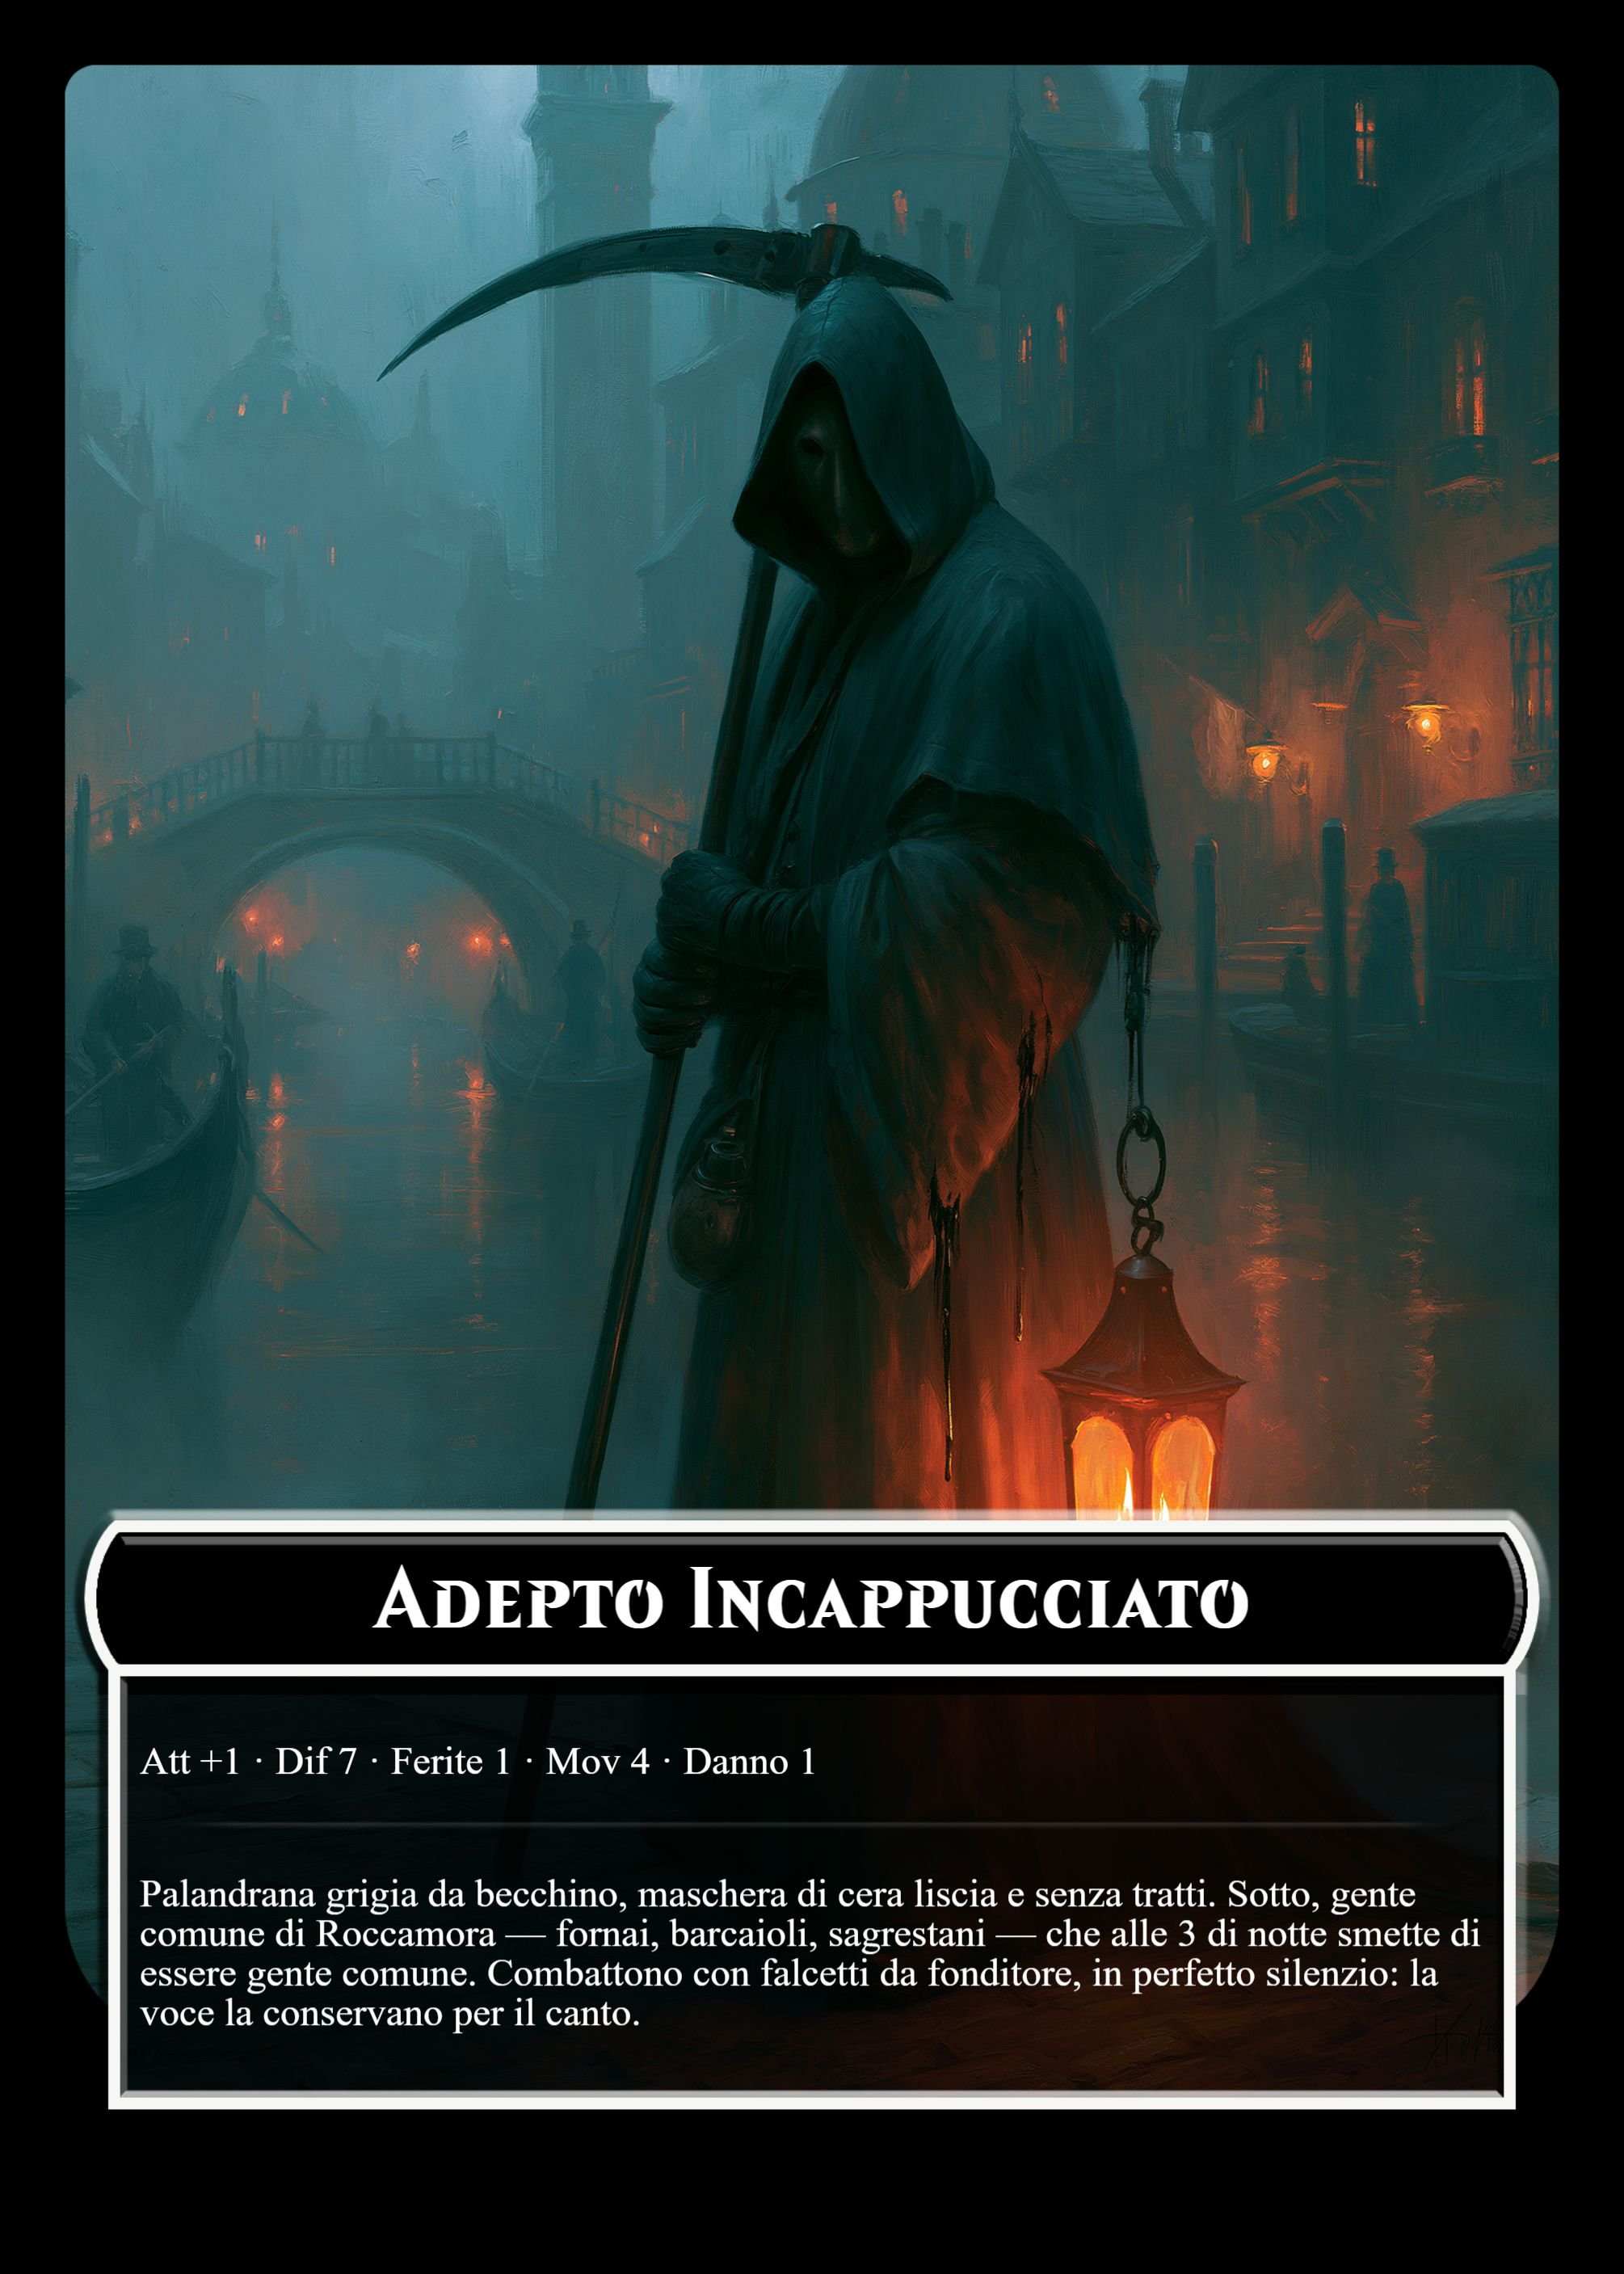
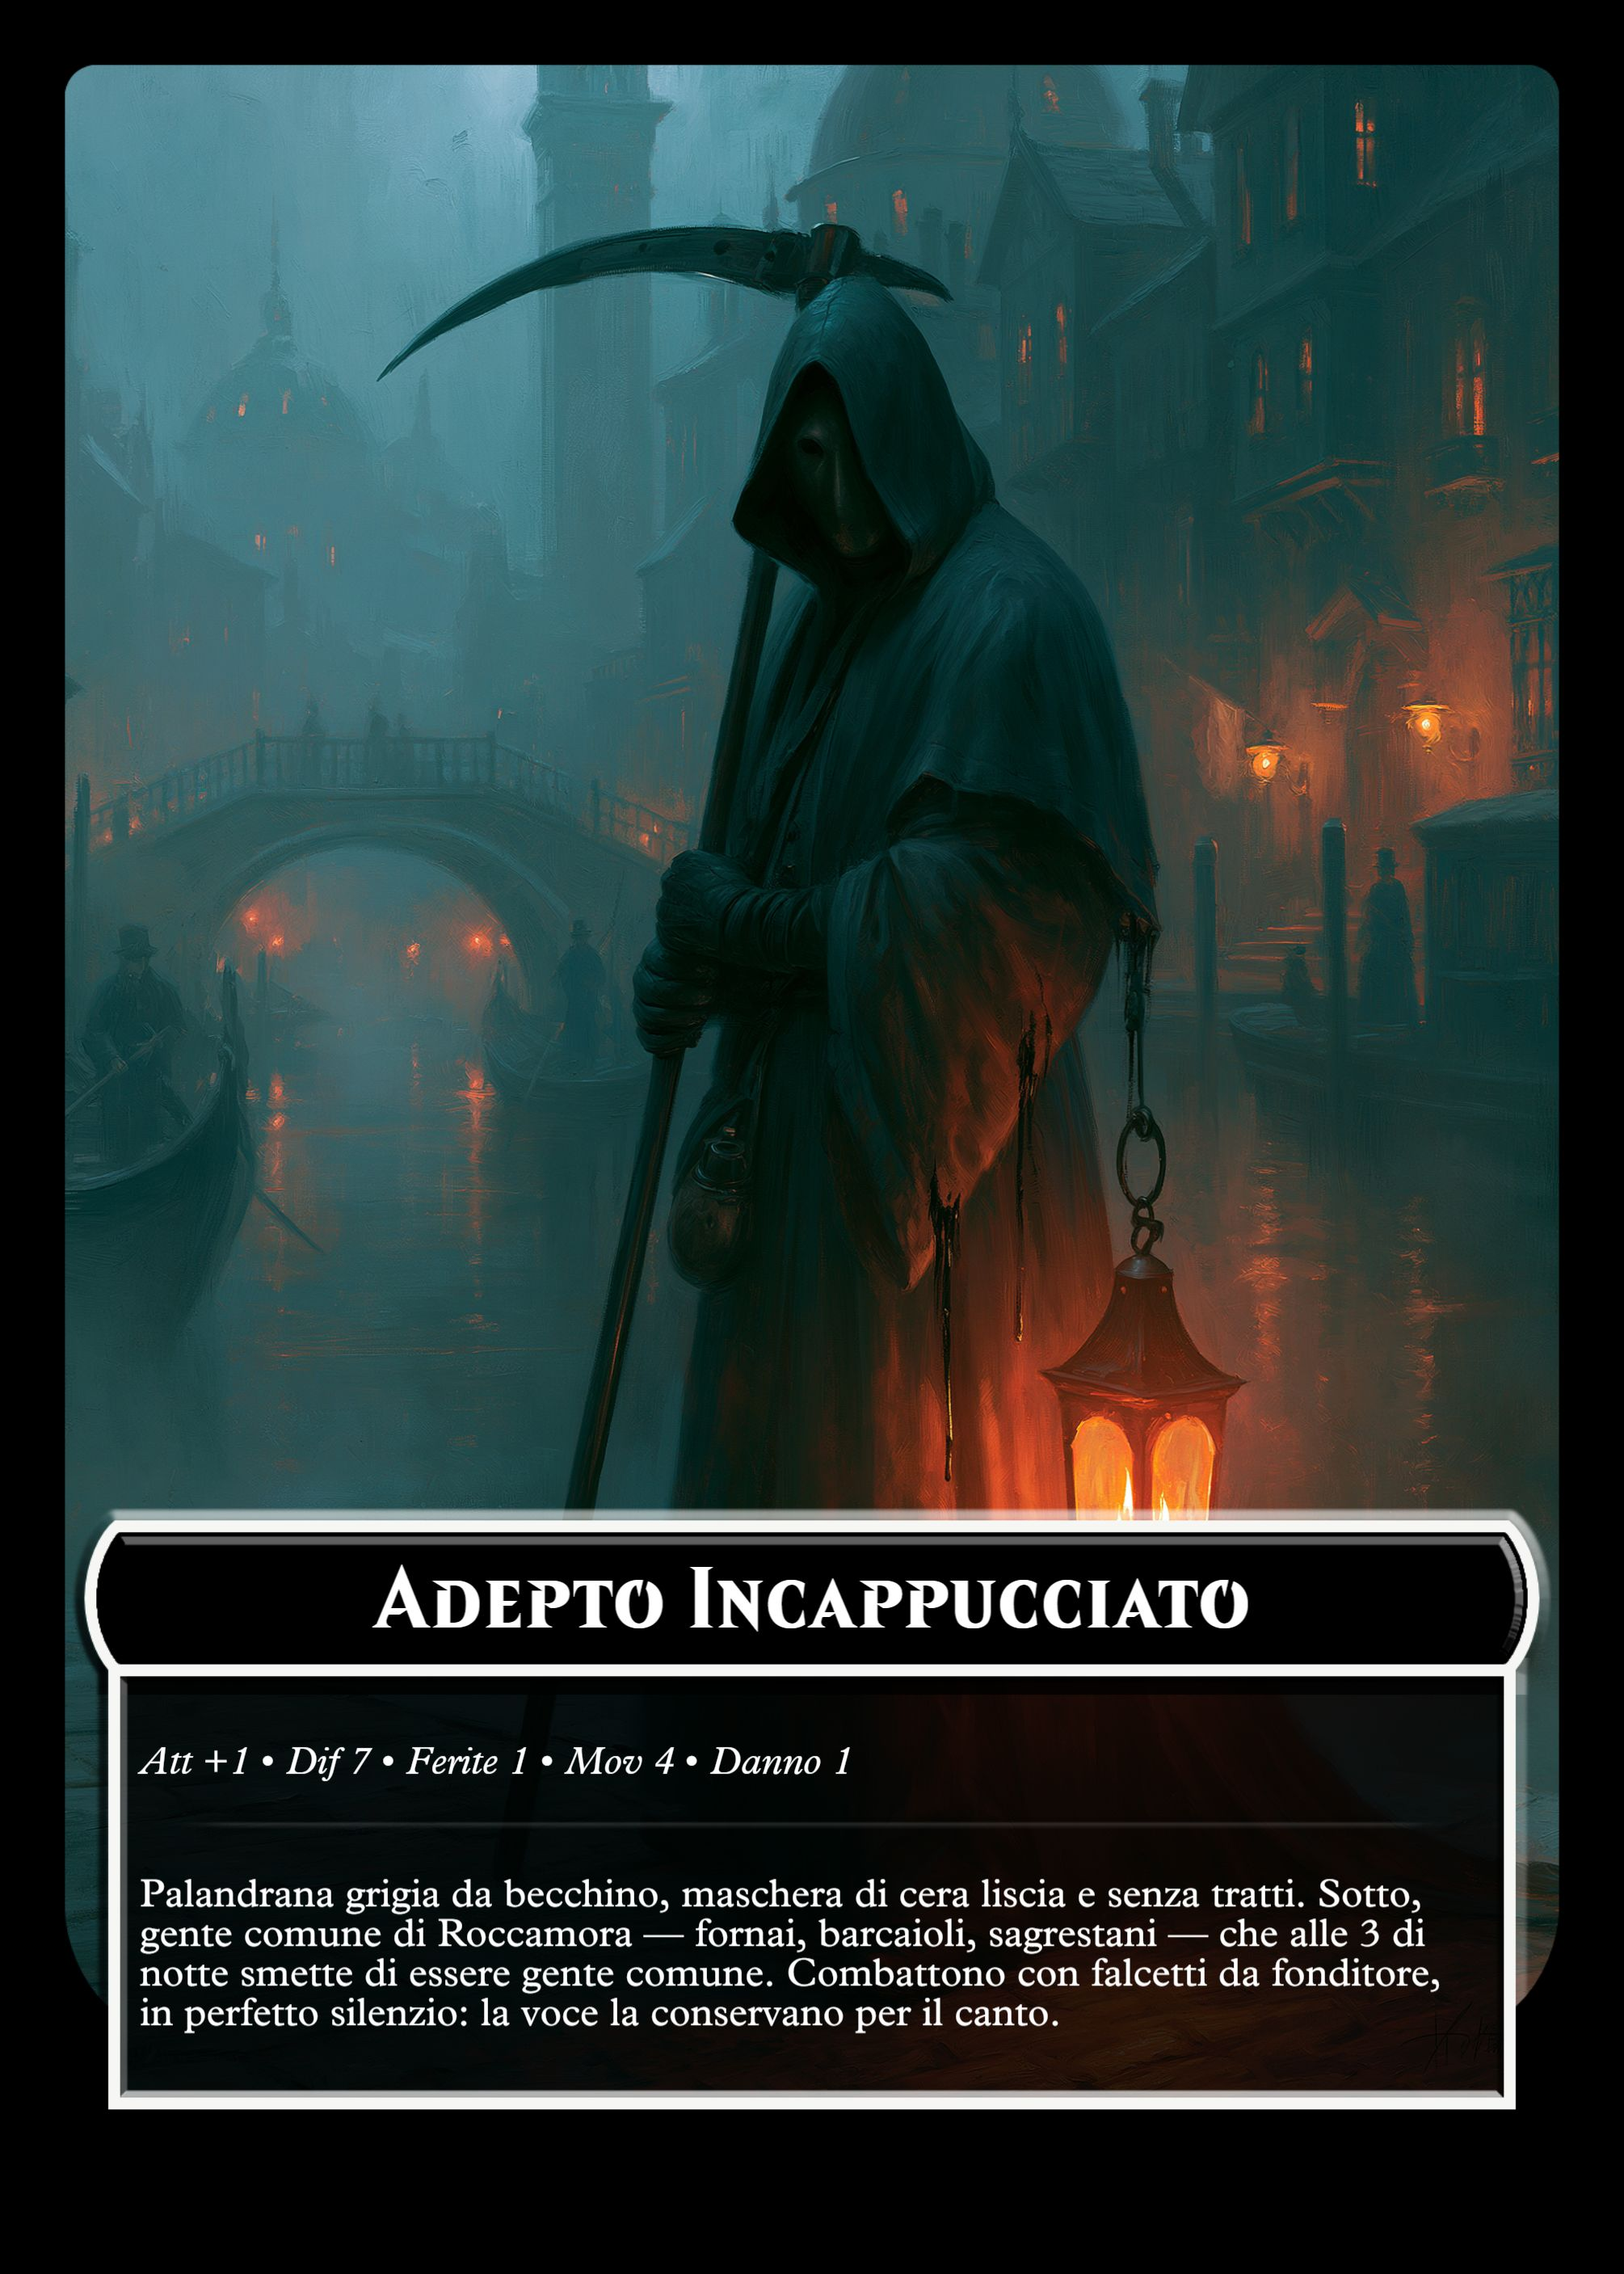
Carte Luogo e Indizio Segreto, fix corsivo mancante sulla prima carta
Aggiunte 8 carte Luogo (Indagine) e 2 Indizio Segreto (solo i luoghi 1 e 4
hanno un vero indizio nascosto nei dati di gioco) in cards-data.js, testo
autoritativo da src/story.py e src/gen_cards.py. Arte riusata dalle 8
immagini inglesi gia' presenti; Archivio Civico ritagliata su misura per
inquadrare sia il libro che la figura invece che l'autofit di cardconjurer
che centrava sulla figura.

Fix in lib.js: la primissima carta generata in un browser/sessione nuova
perdeva il corsivo {i}...{/i} (bug del parser di cardconjurer, non nostro).
Rifare il fill del campo Rules Text una seconda volta lo risolve. Rigenerate
le 6 carte gia' esistenti colpite dal bug (Elena Fosco, Adepto Incappucciato,
Adepto in Agguato, Luogo 1, i 2 Indizio Segreto).

Rimossi 3 file in artworks/ (Cornice carte verticali, Dorso carte Luogo,
Dorso carte Minaccia) gia' spariti dal disco, confermato dall'utente.

Changed region(s): [[0.0925, 0.7729, 0.9254, 0.8966], [0.1851, 0.7729, 0.2159, 0.8038]]

diff --git a/scripts/cardconjurer/cards-data.js b/scripts/cardconjurer/cards-data.js
@@ -137,10 +137,97 @@ const MINACCE = [
   rules: `{i}${m.flavor}{/i}{divider}${m.effect}`,
 }));
 
+// Luoghi dell'Indagine: testo esteso da src/story.py TESTI_LUOGHI (quello
+// realmente stampato nel PDF via story.apply), indizi/nascosto/req da
+// src/gen_cards.py LUOGHI. Un'arte per luogo, riusata anche dalla carta
+// Indizio Segreto corrispondente.
+const LUOGHI_ART = {
+  1: 'artworks/bell tower.png',
+  2: 'artworks/humble candlelit canal-side room.png',
+  3: 'artworks/smoky canal tavern.png',
+  4: 'artworks/nervous priest in a candlelit sacristy.png',
+  5: 'artworks/abandoned luthier workshop.png',
+  6: 'artworks/derelict warehouses over black still water.png',
+  7: 'artworks/dusty municipal archive (libro+persona).png', // ritagliata + banda in fondo (coperta dal riquadro testo) per stare larga quanto libro e figura insieme
+  8: 'artworks/cluttered 19th century police office.png',
+};
+
+const LUOGHI = [
+  { n: 1, nome: 'Il Campanile di San Teodoro', req: 'Disponibile dall’inizio',
+    testo: 'La scala a chiocciola sale nel buio, ottanta gradini che Ruggero conosceva a memoria. In cima, la cella campanaria è un disordine congelato: lo sgabello rovesciato, la lanterna ancora appesa al gancio, la cena intatta sotto un panno. Le tre grandi campane pendono immobili come bestie addormentate, e fa più freddo di quanto dovrebbe.',
+    indizi: ['Colate di cera nera sui gradini — troppo in alto perché vengano dalle candele della chiesa.',
+             'Il diario di Ruggero, con l’ultima pagina strappata. Ricalcando i solchi della penna leggete: «...alle 3 in punto, ogni notte. Tre rintocchi, poi uno, poi cinque. Non sono io a suonare.»',
+             'Graffiata sul legno della balaustra, una parola: SOMMERSO.'],
+    nascosto: 'Tra le assi, un frammento di spartito scritto a mano. Le note non sono per organo: sono per campane.' },
+  { n: 2, nome: 'Casa di Ruggero — Vicolo dei Fonditori', req: 'Disponibile dall’inizio',
+    testo: 'Il vicolo dei Fonditori sa di carbone e minestra. Bice vi apre con gli occhi rossi e le mani che non stanno ferme; la casa è linda, povera, piena dell’assenza di suo fratello. «Negli ultimi tempi diceva di sentire musica sotto il pavimento della cripta», mormora. «E aveva paura del suo stesso campanile.»',
+    indizi: ['Sul tavolo, una CORDA DI VIOLINO d’argento: «L’ha trovata in cripta», dice Bice. (Oggetto: sblocca il Luogo 5.)',
+             'Una ricevuta: Ruggero aveva chiesto all’Archivio Civico i documenti antichi della cattedrale.',
+             'Bice: «L’ultima sera ripeteva una parola, come una preghiera al contrario: sommerso, sommerso.»'],
+    nascosto: null },
+  { n: 3, nome: 'Taverna del Ponte Rotto', req: 'Disponibile dall’inizio',
+    testo: 'Fumo denso, vino cattivo, il tanfo dolciastro del canale che entra a ogni porta che sbatte. I barcaioli giocano a carte sotto una lampada a olio e vi squadrano appena: qui le lingue si sciolgono con poco, purché il poco finisca nel bicchiere giusto.',
+    indizi: ['Ugo il barcaiolo: «Tre notti fa una CHIATTA senza lanterne ha scaricato casse al Canale Basso. Alle 3, proprio mentre le campane suonavano da sole.» (Parola chiave: sblocca il Luogo 6.)',
+             'Un avventore ubriaco: «Vicino ai vecchi magazzini c’è puzza di cera bruciata da settimane.»',
+             'L’oste conferma: Tonio il sagrestano era qui a giocare a carte fino all’alba, la notte della scomparsa.'],
+    nascosto: null },
+  { n: 4, nome: 'La Sagrestia della Cattedrale', req: 'Disponibile dall’inizio',
+    testo: 'Odore d’incenso e di chiuso. Don Callisto vi riceve tra i paramenti, nervoso, nascondendo dietro la schiena le mani sporche di cera. Alle sue spalle la porta della cripta, sbarrata con assi nuove su pietra antica: «Chiusa per lavori», taglia corto, e la voce gli si incrina sull’ultima sillaba.',
+    indizi: ['La tabella degli inni segna il numero 315, «Dal Profondo». Tonio giura di non averlo mai impostato: «Quell’inno non si canta da cent’anni. È roba dell’antico coro.»',
+             'Don Callisto ammette: la seconda chiave della cripta ce l’ha il liutaio Ferri, che sta restaurando l’organo.',
+             'Prima che usciate, vi mette in mano un’ampolla di acqua benedetta: «Se là sotto c’è il demonio, portate questa.»'],
+    nascosto: 'La cera sulle mani di don Callisto è bianca, comune: vende candele di nascosto per pagare i debiti della parrocchia. Con la cera nera non c’entra.' },
+  { n: 5, nome: 'Bottega del Liutaio Ferri', req: 'Serve: la CORDA DI VIOLINO (Luogo 2)',
+    testo: 'La bottega è chiusa da giorni, la polvere ha già preso possesso delle vetrine; la porta sul retro cede a una spallata. Dentro, violini appesi come selvaggina e un silenzio sbagliato per un luogo nato per fare musica. Il banco da lavoro è in ordine perfetto: chi è partito, sapeva di partire.',
+    indizi: ['Bastiano Ferri è sparito da tre giorni. Sul banco, un diapason d’argento inciso con un’onda.',
+             'Il registro consegne, ultima riga: «40 candele di cera nera — consegna al C.B., molo terzo, il vecchio deposito — pagato B.F.»',
+             'Uno spartito: «Dal Profondo», riscritto per campane. In margine: «il bronzo canta, la pietra risponde, l’acqua ricorda».'],
+    nascosto: null },
+  { n: 6, nome: 'Il Canale Basso', req: 'Serve: la parola chiave CHIATTA (Luogo 3)',
+    testo: 'L’acqua qui non scorre: sta. Nera, ferma, densa come olio, lambisce magazzini ciechi dai portoni murati. Il guardiano notturno esce dal casotto con la lanterna alzata e, per qualche moneta, la diffidenza si scioglie in fretta: da settimane muore dalla voglia di raccontare a qualcuno quello che sente la notte.',
+    indizi: ['«Le casse erano marchiate a fuoco con un’onda. Le hanno portate al vecchio Magazzino delle Cere, quello chiuso da vent’anni.»',
+             '«Alle 3 di notte, da là dentro, viene un canto sommesso. Di molte voci. Una volta... ho sentito un urlo.»',
+             'Sul molo: gocce di cera nera e un lucchetto nuovo di zecca sulla porta della banchina, di quelli a tre cifre.'],
+    nascosto: null },
+  { n: 7, nome: 'L’Archivio Civico', req: 'Serve: la parola chiave SOMMERSO (Luogo 1)',
+    testo: 'Scaffali fino al soffitto, cartelle legate con lo spago, la luce verde delle lampade a schermo. L’archivista, minuscolo dietro occhiali spessi, si irrigidisce quando pronunciate la parola giusta: poi, senza fiatare, vi guida a uno scaffale che nessuno tocca da decenni — la polvere è spessa un dito, tranne che su un solo fascicolo.',
+    indizi: ['Fascicolo del 1741: la confraternita del Coro Sommerso, bandita per «pratiche contrarie a Dio e alla quiete delle acque». Si riuniva in cavità sotto la cattedrale, «dove l’acqua canta». Il suo sigillo: un’onda.',
+             'Una mappa antica: dalla cripta, condotti scendono verso il Canale Basso.',
+             'Registro consultazioni, due mesi fa: «B. Ferri, liutaio» ha richiesto questo stesso fascicolo.'],
+    nascosto: null },
+  { n: 8, nome: 'La Gendarmeria', req: 'Disponibile dall’inizio',
+    testo: 'Pile di pratiche, una stufa che fuma, il brigadiere che vi riceve senza alzarsi. «Il campanaro? Sarà scappato con qualche vedova.» Ma mentre lo dice non vi guarda negli occhi, e la sua mano tamburella su un fascicolo di denunce che continua a spostare da un lato all’altro della scrivania.',
+    indizi: ['Nessuna richiesta di riscatto. Il sospettato ufficiale è Tonio il sagrestano, l’ultimo ad aver visto Ruggero.',
+             'Denunce recenti: furti di cera e canapa da tre chiese. E un fonditore giura d’aver venduto un quintale di bronzo a un compratore incappucciato.',
+             '«Se trovate qualcosa di concreto, tornate. Non perquisiamo mezza città per un campanaro con la testa fra le nuvole.»'],
+    nascosto: null },
+].map((L) => ({
+  art: LUOGHI_ART[L.n],
+  title: L.nome,
+  file: `Luoghi/${L.n} - ${L.nome}`,
+  type: `Luogo ${L.n} — ${L.req}`,
+  rules: `{i}${L.testo}{/i}{divider}${L.indizi.map((c) => `◆ ${c}`).join('\n')}`,
+  nascosto: L.nascosto,
+}));
+
+// Indizi Segreti: solo i luoghi che hanno un vero Indizio nascosto nei dati
+// (oggi 1 e 4 — vedi src/gen_cards.py). Si legge solo se l'abilita' di un
+// eroe lo permette (Elena: sempre; Ottone: una volta a episodio).
+const INDIZI = LUOGHI.filter((L) => L.nascosto).map((L) => ({
+  art: L.art,
+  title: `Indizio Segreto — ${L.title}`,
+  file: `Indizi/${L.title}`,
+  type: `Si legge solo con un’abilità (Elena: sempre · Ottone: 1 volta a episodio)`,
+  rules: `{i}${L.nascosto}{/i}`,
+}));
+
 // Sottocartella per tipo, cosi' e' chiaro a colpo d'occhio se una carta e' la
 // scheda nemico (combattimento) o la carta minaccia (evento dal mazzo), anche
 // quando condividono soggetto/art (es. "Il Fonditore" esiste in entrambe).
 NEMICI.forEach((n) => { n.file = `Nemici/${n.title}`; });
 HEROES.forEach((h) => { h.file = `Eroi/${h.title}`; });
 
-module.exports = { HEROES, NEMICI, MINACCE, ALL: [...HEROES, ...NEMICI, ...MINACCE] };
+module.exports = {
+  HEROES, NEMICI, MINACCE, LUOGHI, INDIZI,
+  ALL: [...HEROES, ...NEMICI, ...MINACCE, ...LUOGHI, ...INDIZI],
+};

diff --git a/scripts/cardconjurer/lib.js b/scripts/cardconjurer/lib.js
@@ -66,10 +66,20 @@ async function generateOne(page, card, { cwd = process.cwd(), artist = 'Fabietto
   // riga statistiche) e a fine testo (margine dai bordi del riquadro).
   const rulesSpaced = rulesText ? `\n${rulesText.replace(/\{divider\}/g, '{divider}\n')}\n` : rulesText;
   await fillTextArea('Rules Text', rulesSpaced);
+  // Sulla primissima carta generata in un browser/sessione nuova, il parser dei
+  // codici di formattazione {i}...{/i} di cardconjurer non e' ancora "caldo": il
+  // primo fill esce dritto invece che corsivo. Rifare il fill una seconda volta
+  // (stesso valore) forza un secondo passaggio del parser e lo sistema.
+  if (rulesText) await fillTextArea('Rules Text', rulesSpaced);
 
   // Il canvas di export si ridisegna in modo asincrono/debounced dopo l'ultimo fill:
   // senza questa attesa il download parte prima che il testo sia committato sul canvas.
   await page.waitForTimeout(1500);
+  // Sulla primissima carta generata in un browser "freddo" il font corsivo puo' non
+  // essere ancora pronto quando scatta lo screenshot (es. {i}...{/i} esce dritto
+  // invece che corsivo): aspettare i font e ridare un attimo di margine lo evita.
+  await page.evaluate(() => document.fonts.ready).catch(() => {});
+  await page.waitForTimeout(300);
 
   // --- DOWNLOAD ---
   const outPath = path.resolve(cwd, 'cards', `${outName}.jpg`);

diff --git a/scripts/cardconjurer/generate-batch.js b/scripts/cardconjurer/generate-batch.js
@@ -6,12 +6,14 @@
 //   node scripts/cardconjurer/generate-batch.js heroes      (solo eroi)
 //   node scripts/cardconjurer/generate-batch.js nemici      (solo nemici)
 //   node scripts/cardconjurer/generate-batch.js minacce     (solo minacce)
+//   node scripts/cardconjurer/generate-batch.js luoghi      (solo luoghi)
+//   node scripts/cardconjurer/generate-batch.js indizi      (solo indizi segreti)
 
 const { chromium } = require('playwright');
 const { generateOne } = require('./lib');
-const { HEROES, NEMICI, MINACCE, ALL } = require('./cards-data');
+const { HEROES, NEMICI, MINACCE, LUOGHI, INDIZI, ALL } = require('./cards-data');
 
-const GROUPS = { heroes: HEROES, nemici: NEMICI, minacce: MINACCE, all: ALL };
+const GROUPS = { heroes: HEROES, nemici: NEMICI, minacce: MINACCE, luoghi: LUOGHI, indizi: INDIZI, all: ALL };
 
 (async () => {
   const which = (process.argv[2] || 'all').toLowerCase();